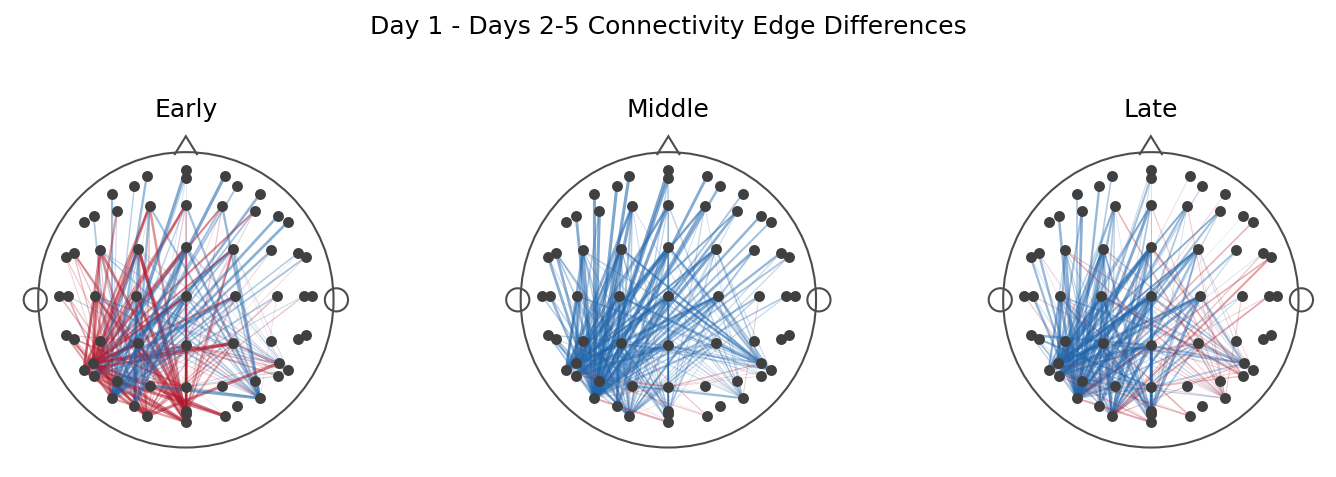
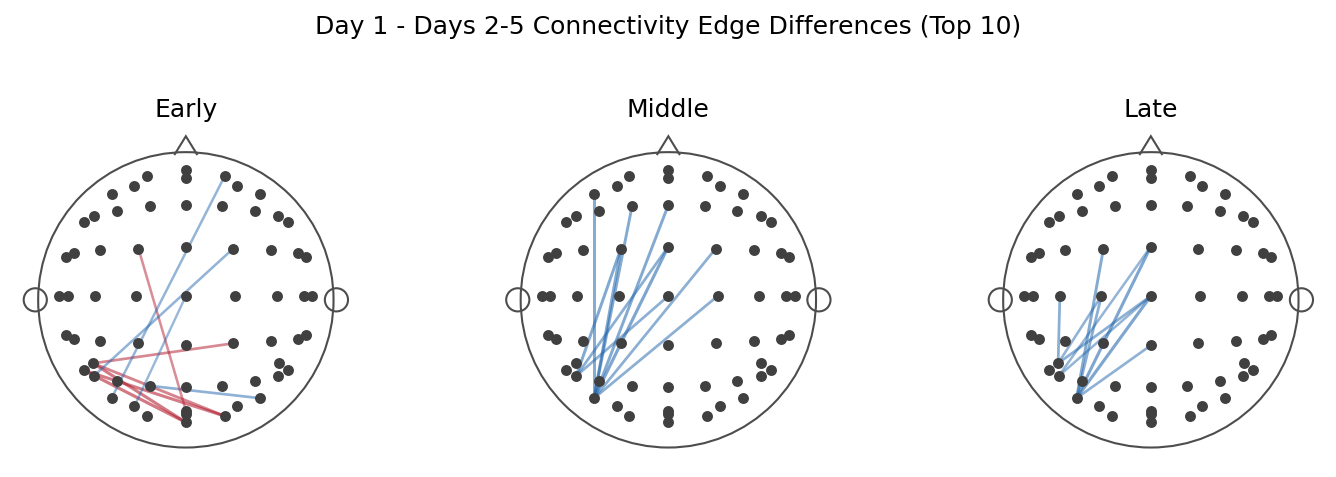
.

diff --git a/code/presentation_figure.py b/code/presentation_figure.py
@@ -516,6 +516,7 @@ def plot_presentation_connect_difference_row(
     active,
     layout,
     figures_dir,
+    top_n=10,
 ):
     fig, axes = plt.subplots(1, 3, figsize=(9.8, 3.2))
     panels = [
@@ -526,6 +527,13 @@ def plot_presentation_connect_difference_row(
     for idx, panel in enumerate(panels):
         window, edges, title = panel
         rows = connect_edge_difference_rows(edges, active, window)
+        rows = (
+            rows.assign(abs_diff=rows["difference"].abs())
+            .sort_values("abs_diff", ascending=False)
+            .head(top_n)
+            .drop(columns="abs_diff")
+            .reset_index(drop=True)
+        )
         draw_edge_panel(
             axes[idx],
             rows,
@@ -535,7 +543,7 @@ def plot_presentation_connect_difference_row(
             panel_vlim(rows, "difference"),
             signed=True,
         )
-    fig.suptitle("Day 1 - Days 2-5 Connectivity Edge Differences")
+    fig.suptitle("Day 1 - Days 2-5 Connectivity Edge Differences (Top 10)")
     fig.tight_layout(rect=[0, 0, 1, 0.9])
     fig_path = figures_dir / "presentation_connectivity_difference_edges_3windows.png"
     fig.savefig(fig_path, dpi=150, bbox_inches="tight")
